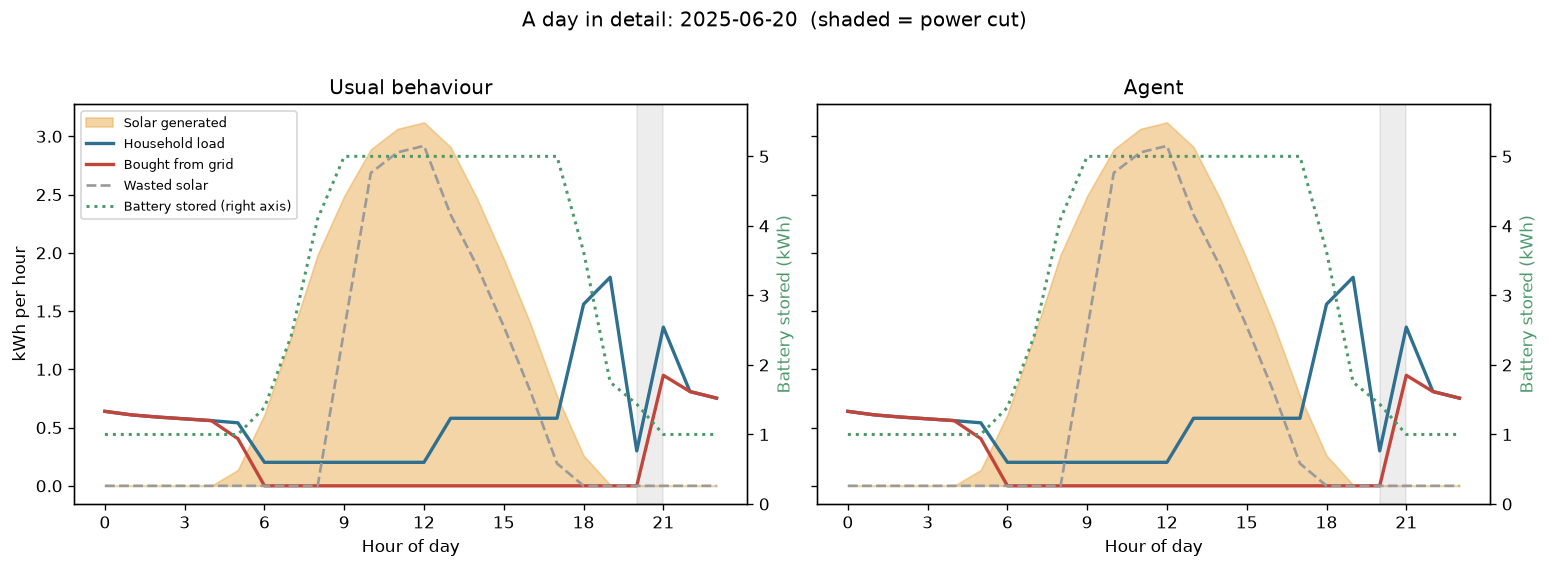
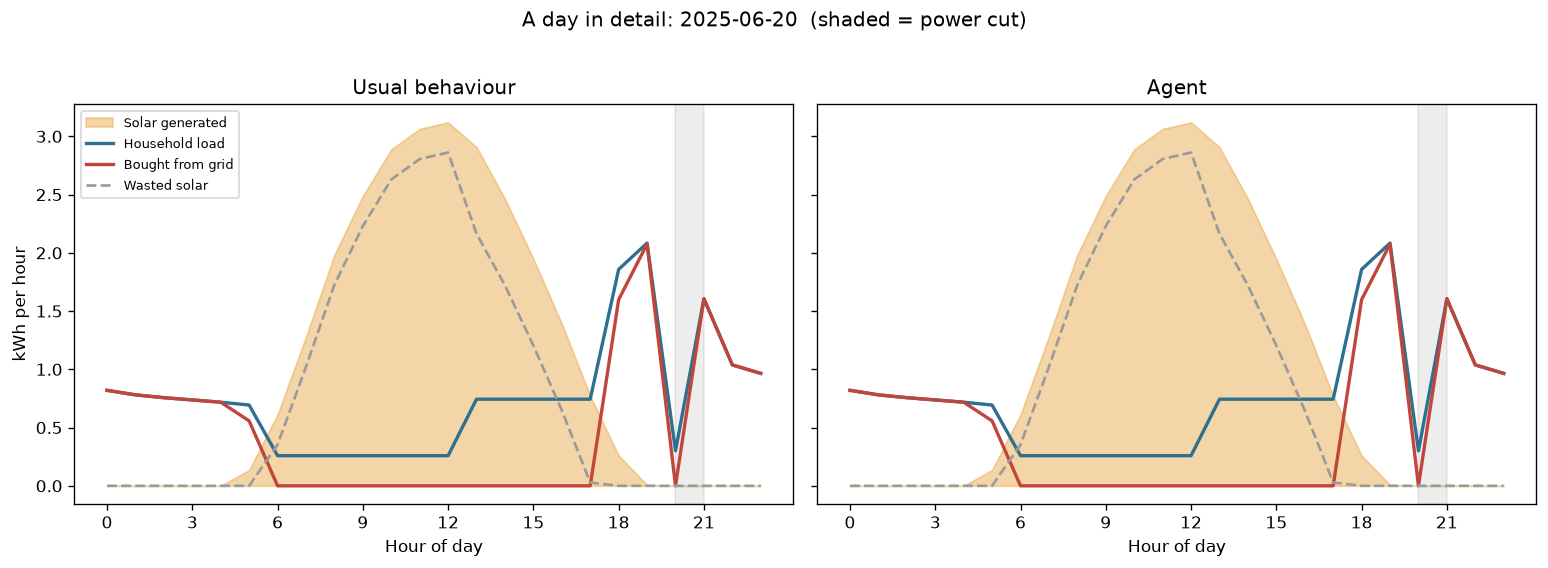
Item 2: make at_risk, no battery, unregistered the default scenario
config main_scenario and the single-run defaults now point at the at_risk home,
and the app opens on it: the case where the tariff cliff actually bites. The app
sidebar reads its defaults from main_scenario rather than hard-coding them, and
carries a caption saying the 215-unit figure is an assumption to be set from a
real bill. HEADLINE.md regenerated against the new main scenario.

Changed region(s): [[0.031, 0.1197, 1.0, 0.9877], [0.2481, 0.9278, 0.3101, 0.9877], [0.4651, 0.2694, 0.4961, 0.2993]]

diff --git a/app.py b/app.py
@@ -70,15 +70,24 @@ with st.sidebar:
         "at_risk": "At risk - 1 AC, currently just over 200 units",
         "high_use": "High use - 2 ACs, well over the limit",
     }
+    households = list(config["households"])
+    default = config["main_scenario"]
     household = st.radio(
-        "Household", list(config["households"]),
+        "Household", households,
+        index=households.index(default["household"]) if default["household"] in households else 0,
         format_func=lambda v: household_labels.get(v, v),
         help="Each profile's baseline is calibrated to a configurable monthly target of grid units. "
              "Those targets are assumptions, to be set from a real bill. See ASSUMPTIONS.md.",
     )
-    has_battery = st.toggle("Battery (5 kWh)", value=True)
+    st.caption(
+        f"The 215-unit figure behind **At risk** is an **assumption**, to be set from a real bill "
+        f"(`calibration.at_risk_target_units`)."
+    )
+    has_battery = st.toggle("Battery (5 kWh)", value=bool(default["has_battery"]))
+    export_modes = ["none", "net_billing", "net_metering"]
     export_mode = st.selectbox(
-        "Can the home sell power?", ["none", "net_billing", "net_metering"],
+        "Can the home sell power?", export_modes,
+        index=export_modes.index(default["export_mode"]),
         format_func=lambda v: {
             "none": "No - not registered (surplus is wasted)",
             "net_billing": "Net billing (~Rs 11/unit, contested)",

diff --git a/results/HEADLINE.md b/results/HEADLINE.md
@@ -3,38 +3,43 @@
 <!-- Generated by src/simulate.py from results/summary.json. Do not edit by hand. -->
 
 **Simulated month:** 2025-06 - **Location:** Islamabad
-**Main scenario:** a low use home, 5 kW of panels, with a battery, not registered to sell power (surplus is wasted).
+**Main scenario:** a at risk home, 5 kW of panels, with no battery, not registered to sell power (surplus is wasted).
 
 These are results from a **simulation**, not measurements from a real home. They depend on the assumptions in ASSUMPTIONS.md, several of which are rough estimates.
 
 ## What the agent changed
 
-1. **Units bought from the grid:** **69.7 -> 53.4 units**, a fall of 16.3 (23% less).
-2. **Evening units (18:00-22:00), the hours that strain the grid:** **10.1 -> 3.9 units**, a fall of 6.2 (61% less).
-3. **Highest single-hour grid draw:** **0.99 -> 0.95 kW**, a fall of 0.0 (4% less).
-4. **Power-cut shortfall:** **0 -> 0 kWh**, a fall of 0.0 (0 hours without backup, down to 0).
+1. **Units bought from the grid:** **215 -> 181.4 units**, a fall of 33.6 (16% less).
+2. **Evening units (18:00-22:00), the hours that strain the grid:** **121.4 -> 86.9 units**, a fall of 34.5 (28% less).
+3. **Highest single-hour grid draw:** **2.1 -> 2.08 kW**, a fall of 0.0 (1% less).
+4. **Power-cut shortfall:** **9 -> 9 kWh**, a fall of 0.0 (0% less) (30 hours without backup, down to 30).
 
 ### Reading those numbers fairly
 
-During a power cut a home with nothing left in the battery simply goes dark, and load it never served never appears on the bill. So units bought must be read next to load actually served: **311.3 kWh usual vs 315.6 kWh agent**, out of 315.6 kWh the home wanted. Per 100 kWh actually served, grid units go **22.4 -> 16.9**.
+During a power cut a home with nothing left in the battery simply goes dark, and load it never served never appears on the bill. So units bought must be read next to load actually served: **374.6 kWh usual vs 379.7 kWh agent**, out of 388.7 kWh the home wanted. Per 100 kWh actually served, grid units go **57.4 -> 47.8**.
 
-Cost of the units bought: **Rs 735 -> Rs 563** on protected pricing (including Rs 0 of fixed charges). Band rates are the reported S.R.O. 279(I)/2026 figures and still need verifying against NEPRA; taxes, duty and fuel adjustments are excluded, so a real bill would be higher.
+Cost of the units bought: **Rs 7,117 -> Rs 2,114** on unprotected pricing (including Rs 0 of fixed charges). Band rates are the reported S.R.O. 279(I)/2026 figures and still need verifying against NEPRA; taxes, duty and fuel adjustments are excluded, so a real bill would be higher.
 
 ## How much the agent trusted itself
 
 - Average day-ahead forecast error: **52.7 W/m2**; average solar held back as a safety margin: **0.257 kW per hour**.
-- The agent sent **131 messages** and **refused to move an appliance 2 times** because it was not confident enough.
+- The agent sent **104 messages** and **refused to move an appliance 2 times** because it was not confident enough.
 - **Promises kept: 98.1%** of the 52 times it said the panels would cover an appliance, the sun actually delivered. This is the agent marking its own homework against what really happened.
 - The family acted on **70.0% of suggestions** in this run. Battery planning is automatic and always applies; appliance timing needs someone to act. The share is an assumption, to be set from the survey.
 
 ## Solar that still goes to waste
 
-- Generated: **738.3 kWh**. Used on site: **252.7 -> 271.3 kWh** (34.2% -> 36.8% of generation).
-- Still wasted: **485.5 -> 466.9 kWh**. Most noon solar is still thrown away, because an unregistered home cannot sell it and a 5 kWh battery cannot hold a whole sunny day.
+- Generated: **738.3 kWh**. Used on site: **159.6 -> 198.3 kWh** (21.6% -> 26.9% of generation).
+- Still wasted: **578.6 -> 540 kWh**. Most noon solar is still thrown away, because an unregistered home cannot sell it and a 5 kWh battery cannot hold a whole sunny day.
 
 ## The 200-unit threshold
 
-In this scenario both modes stay under the 200-unit protected limit (69.7 and 53.4 units), so the guard was never needed here. It is a safety net, not something this scenario demonstrates. Guard mode fired on **0 days** in this run; tests confirm it defends every non-telescopic band edge for homes that are on course to cross one.
+Usual behaviour crosses the 200-unit limit (215 units) and the agent stays under it (181.4 units). That matters twice over, and the two figures are different things:
+
+1. **This month: Rs 5,003 less** for the units bought (Rs 7,117 against Rs 2,114).
+2. **The next 6 months: about Rs 18,788.** Once a home crosses the limit it stays on unprotected rates for 6 months *even after its usage drops back under 200*. This figure prices those months at 181.4 units, the agent's own monthly usage, and assumes it holds steady. It is an estimate, not a forecast.
+
+A month above the limit can never itself be billed at protected rates, so the penalty is not that month's own gap - it is what the *following* months cost.
 
 ---
 
